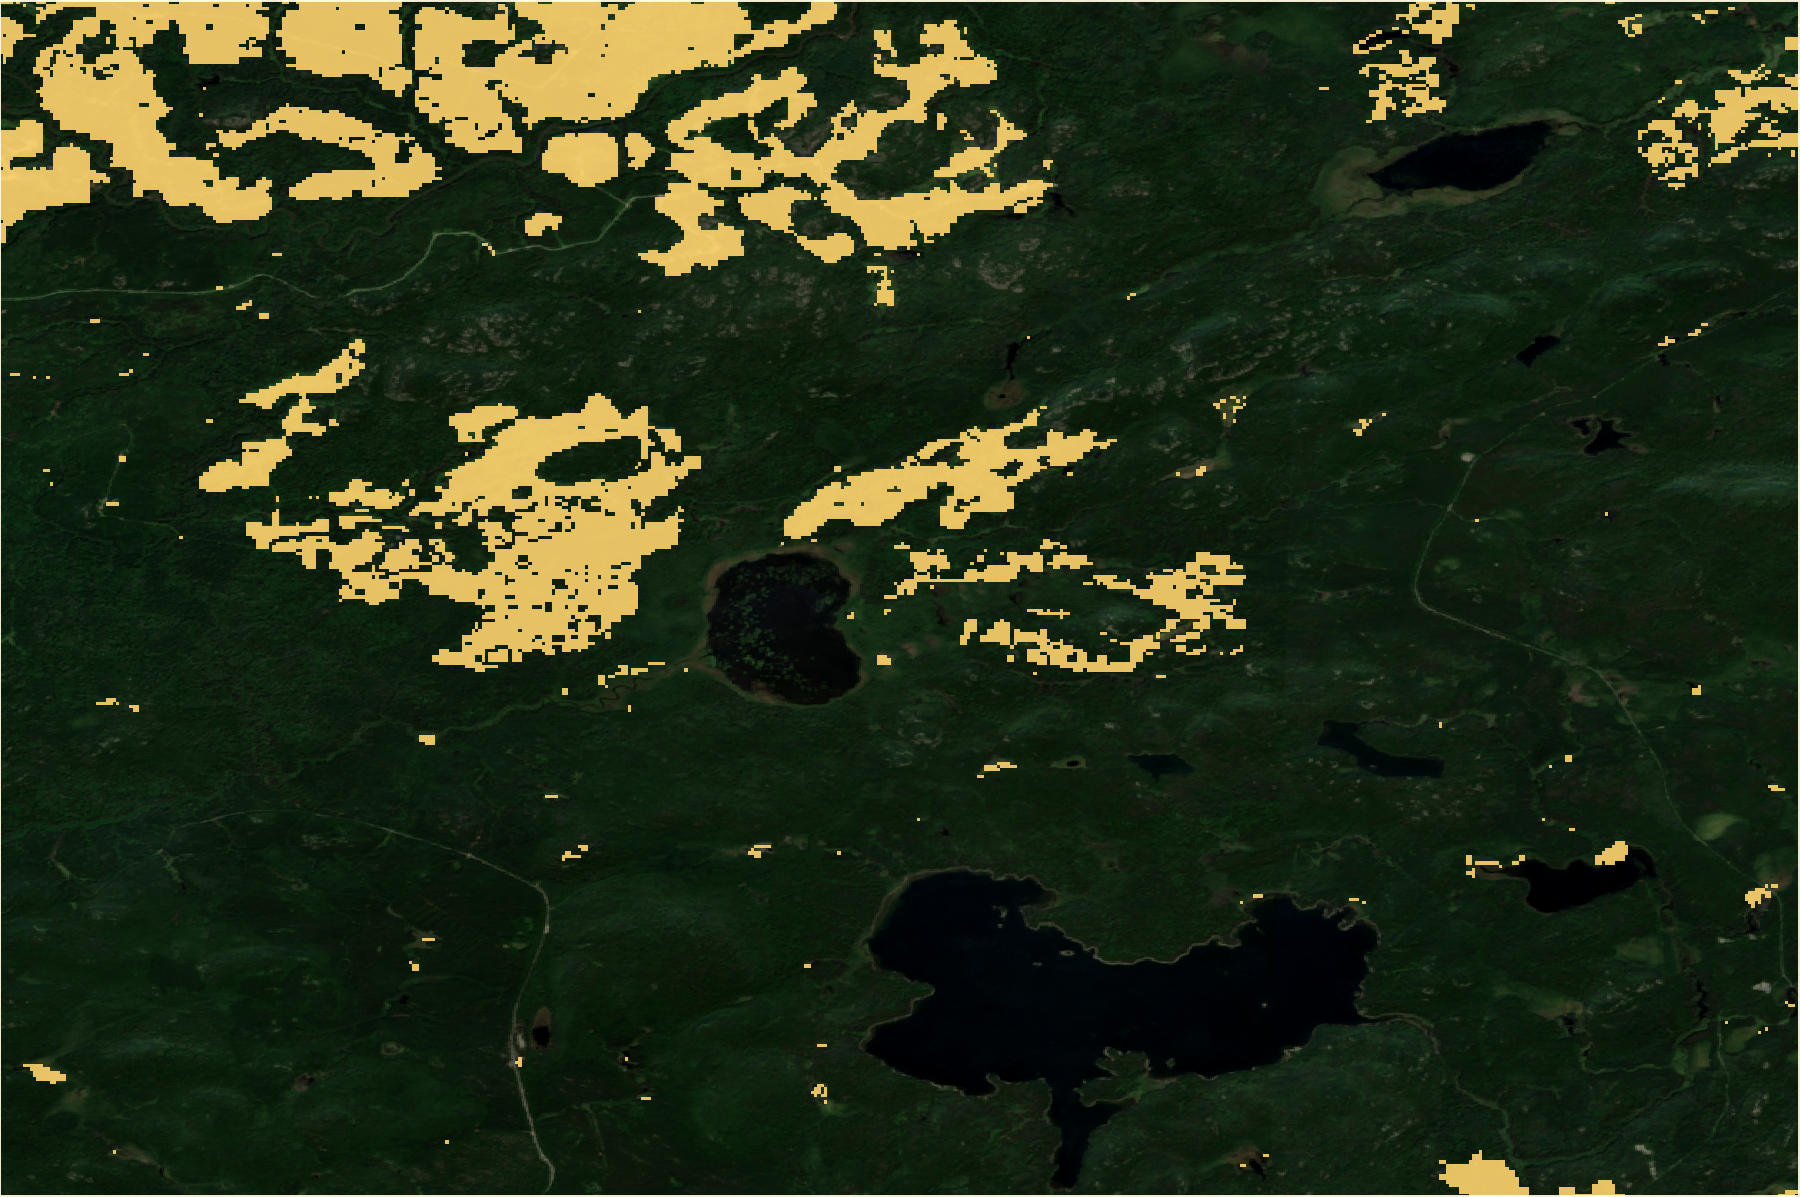
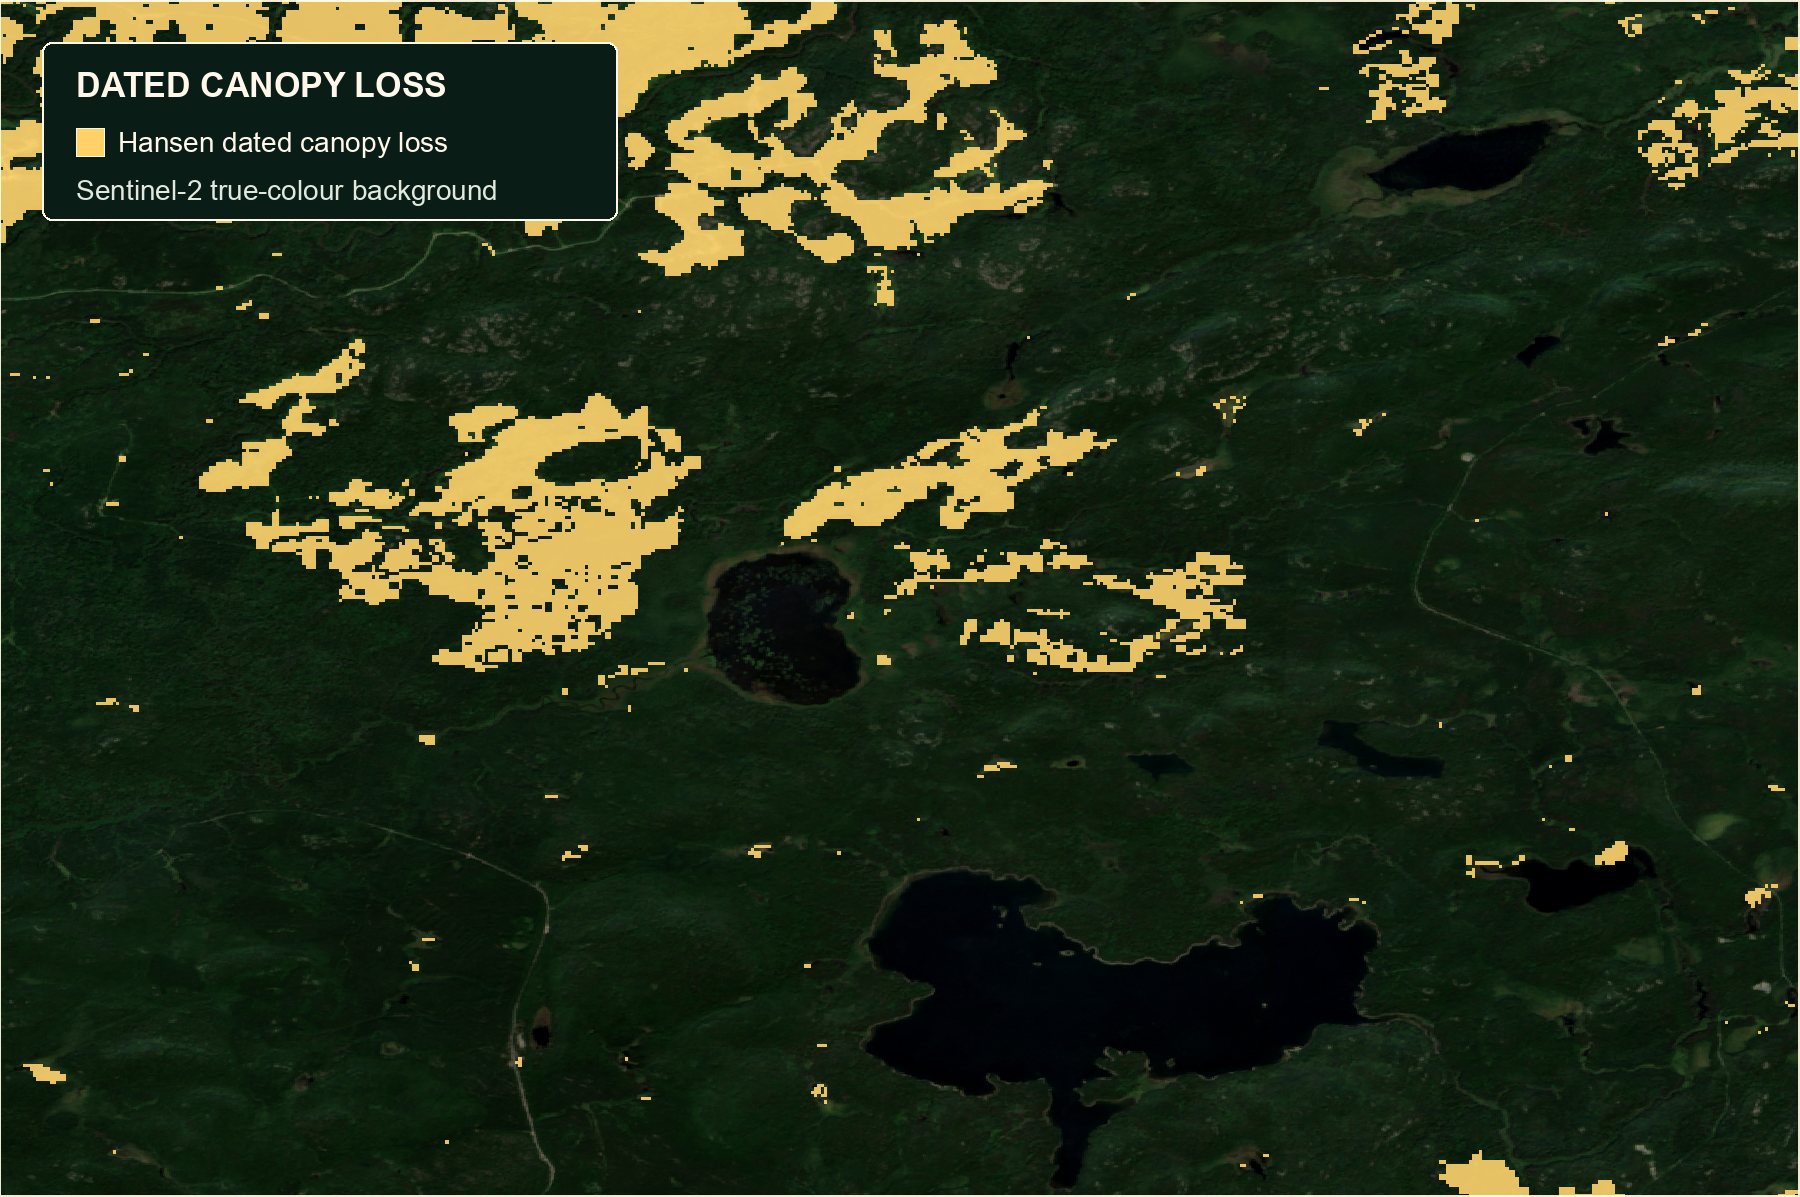
Finalize Boreal Ledger research landing page

Changed region(s): [[0.0, 0.0309, 0.3422, 0.1855]]

diff --git a/docs/index.html b/docs/index.html
@@ -72,7 +72,7 @@ years_since = ee.Image.constant(current_year).subtract(calendar_year)</code></pr
       <section class="story visual-first alt">
         <figure class="map-figure">
           <img src="assets/disturbance_attribution_map.png" alt="Sentinel-2 forest background with non-fire residual Hansen loss overlaid inside the Abitibi AOI.">
-          <figcaption>Non-fire residual Hansen loss. No NBAC fire layer is shown because no NBAC fire perimeters intersect the AOI.</figcaption>
+          <figcaption>Non-fire residual Hansen canopy loss within the Abitibi AOI. No NBAC fire perimeter intersects the study area for 1972–2023; the residual is therefore interpreted as probable harvest in this managed forest context, not as a direct harvest observation.</figcaption>
         </figure>
         <div class="story-copy">
           <p class="section-label">What caused it?</p>
@@ -114,7 +114,7 @@ year_matches = loss_calendar_year.eq(fire_year_img).unmask(0)</code></pre>
         <div class="recovery-layout">
           <figure class="wide-figure">
             <img src="assets/recovery_curve.png" alt="Sentinel-2 NBR recovery curve by years since Hansen canopy loss.">
-            <figcaption>NBR is spectral vegetation recovery, not biomass recovery.</figcaption>
+            <figcaption>NBR is spectral vegetation recovery, not biomass recovery. Age classes with fewer than 100 pixels were excluded from the spectral chronosequence.</figcaption>
           </figure>
           <div class="recovery-copy">
             <div class="recovery-head">
